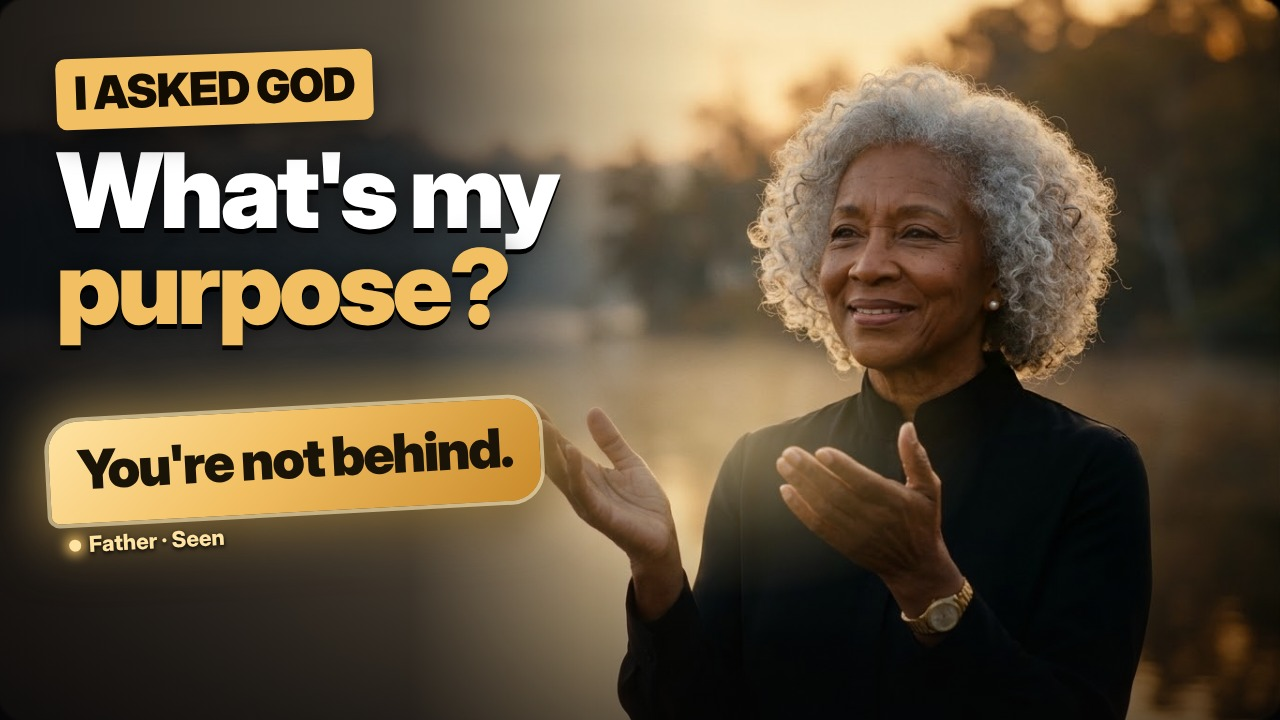
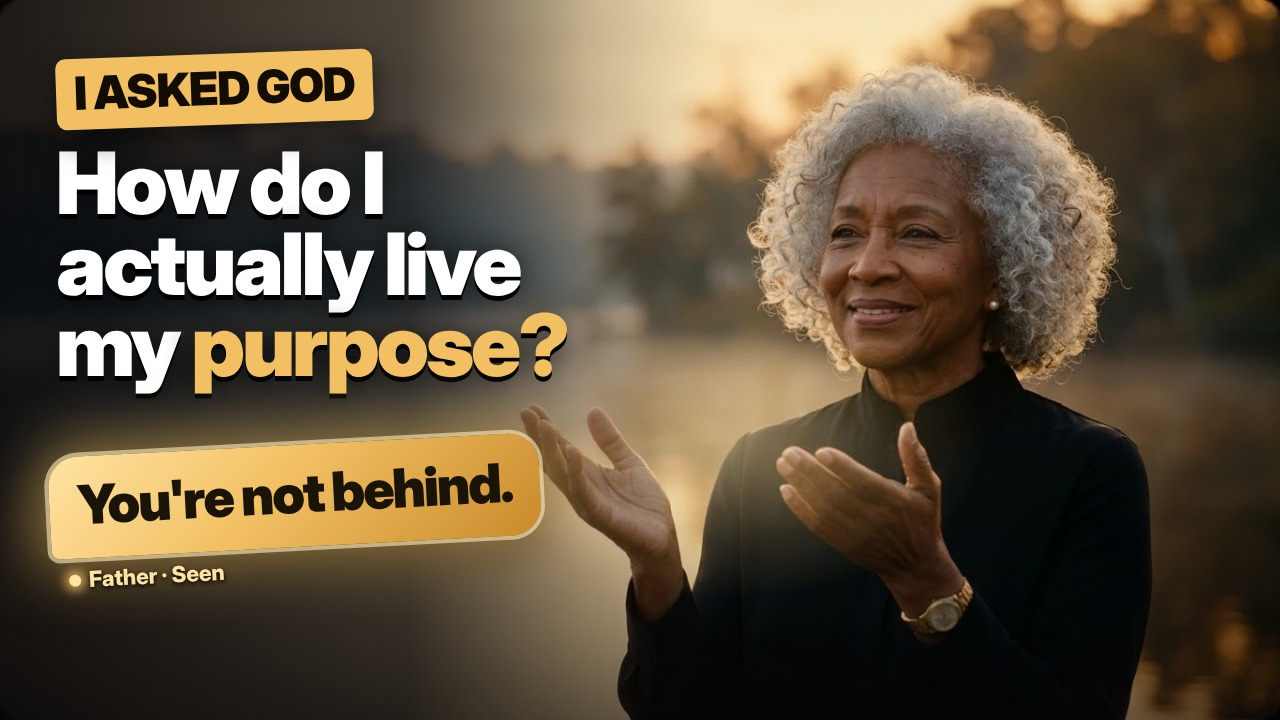
Thumbnail: use 'How do I actually live my purpose?' headline
Claude-Session: https://claude.ai/code/session_018FpgN3HfC6M4VTLCpARYhW

Changed region(s): [[0.0, 0.2139, 0.4688, 0.825]]

diff --git a/thumbnail/thumbnail-photo.html b/thumbnail/thumbnail-photo.html
@@ -21,11 +21,11 @@
   .kicker { display: inline-block; background: #F2C063; color: #120c02; font-weight: 900; font-size: 46px;
     letter-spacing: -1px; padding: 6px 18px 9px; border-radius: 10px; transform: rotate(-2deg);
     box-shadow: 0 10px 30px rgba(0,0,0,.6); }
-  .q { margin-top: 18px; color: #fff; font-weight: 900; font-size: 104px; line-height: .92; letter-spacing: -4px;
+  .q { margin-top: 18px; color: #fff; font-weight: 900; font-size: 86px; line-height: .94; letter-spacing: -3px;
     text-shadow: 0 5px 0 #000, 0 0 30px rgba(0,0,0,.7); }
   .q em { font-style: normal; color: #F2C063; }
 
-  .reply { position: absolute; left: 50px; top: 410px; transform: rotate(-3deg); }
+  .reply { position: absolute; left: 50px; top: 445px; transform: rotate(-3deg); }
   .bubble { background: linear-gradient(135deg,#FFE3A3 0%,#F2C063 45%,#C98A2B 100%); color:#1A1408;
     font-weight: 900; font-size: 54px; letter-spacing: -2px; line-height: 1; padding: 22px 28px 26px;
     border-radius: 30px 30px 30px 8px; white-space: nowrap;
@@ -42,7 +42,7 @@
 
   <div class="left">
     <div class="kicker">I ASKED GOD</div>
-    <div class="q">What's my<br><em>purpose?</em></div>
+    <div class="q">How do I<br>actually live<br>my <em>purpose?</em></div>
   </div>
 
   <div class="reply">
